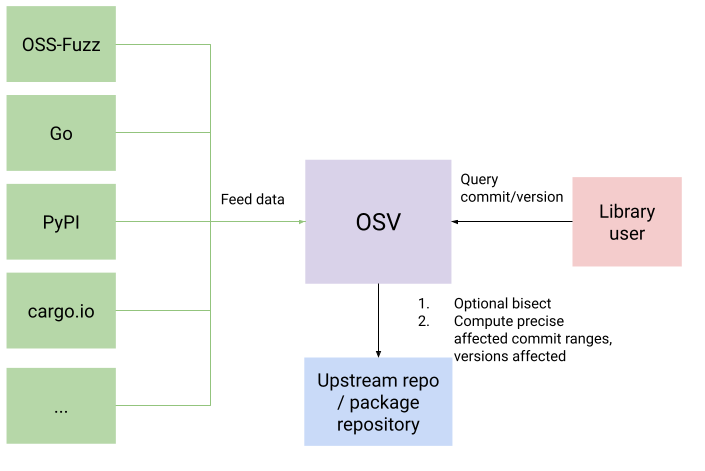
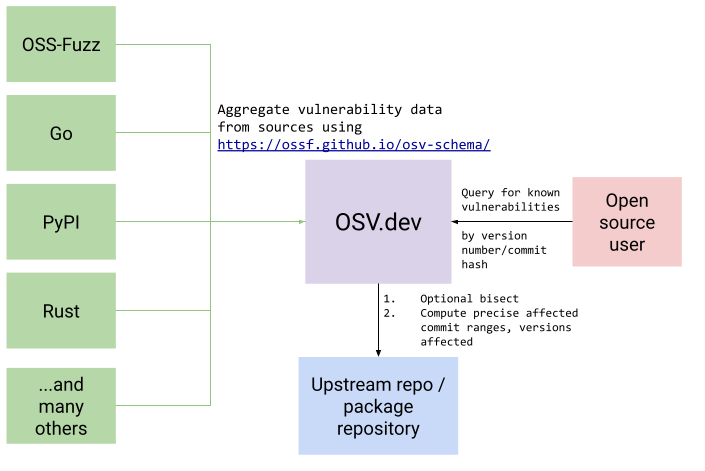
Update README
To better clarify relationship with OSV schema.

Also update process image.

diff --git a/gcp/appengine/frontend/src/components/Home.vue b/gcp/appengine/frontend/src/components/Home.vue
@@ -23,29 +23,30 @@
 
       <h3>Database for open source vulnerabilities</h3>
       <p>
-        OSV is a <router-link to="list">vulnerability database</router-link>
+        OSV.dev is a <router-link to="list">vulnerability database</router-link>
         and triage infrastructure for open source projects aimed at helping
         both open source maintainers and consumers of open source.
       <p>
       <p>
-        This feed contains vulnerabilities from
+        This infrastructure serves as an aggregator of vulnerabilities from
         <a href="https://github.com/google/oss-fuzz">OSS-Fuzz</a> (mostly C/C++),
         <a href="https://github.com/pypa/advisory-db">Python</a>, and
         <a href="https://github.com/golang/vulndb">Go</a>, and
         <a href="https://github.com/RustSec/advisory-db">Rust</a>, and
         <a href="https://github.com/cloudsecurityalliance/gsd-database">GSD</a>, and
-        npm (from GitHub Security Advisories).
-
-        More <a href="https://github.com/google/osv/issues/44">to come</a>.
+        parts of GitHub Security Advisories (Maven, npm).
+      </p>
+      <p>
+        These databases have all adopted the 
+        <a href="https://ossf.github.io/osv-schema/">OpenSSF Open Source
+        Vulnerability format</a>, making common tooling and aggregation very
+        simple. More data sources from other popular ecosystems are in the works.
       </p>
       <h4>API</h4>
       <p>
         For open source consumers, OSV provides an <a
         href="https://osv.dev/docs/#section/Getting-Started">API</a> that lets
         users query whether or not their versions are impacted.
-
-        These vulnerabilities are encoded in the
-        <a href="https://ossf.github.io/osv-schema/">OpenSSF Open Source Vulnerability format</a>.
       </p>
       <pre>
         curl -X POST -d \
@@ -69,7 +70,8 @@
       </p>
       <h3>Open source</h3>
       <p>
-        This is an <a href="https://github.com/google/osv">open source project</a> from <b>Google</b>.
+        This is an <a href="https://github.com/google/osv">open source project</a>.
+        We welcome contributions!
       </p>
       <h3>More information</h3>
       <p>

diff --git a/README.md b/README.md
@@ -1,15 +1,17 @@
 # OSV - Open Source Vulnerabilities
 
-OSV is a [vulnerability database] and triage infrastructure for open source
-projects aimed at helping both open source maintainers and consumers of open
-source.
+https://osv.dev is a [vulnerability database] and triage infrastructure for
+open source projects aimed at helping both open source maintainers and
+consumers of open source.
 
-For open source maintainers, OSV's automation helps reduce the burden of triage.
-Each vulnerability undergoes automated bisection and impact analysis to
-determine precise affected commit and version ranges.
+This repository contains the infrastructure code that serves https://osv.dev
+(and other user tooling). This infrastructure serves as an aggregator of
+vulnerability databases that have adopted the
+[OpenSSF Vulnerability format](https://github.com/ossf/osv-schema).
 
-For open source consumers, OSV provides an API that lets users of these projects
-query whether or not their versions are impacted.
+https://osv.dev additionally provides infrastructure to ensure affected
+versions are accurately represented in each vulnerability entry, through
+bisection and version analysis.
 
 [vulnerability database]: https://osv.dev/list
 
@@ -19,9 +21,9 @@ query whether or not their versions are impacted.
 
 ## Current data sources
 **This is an ongoing project.** We encourage open source ecosystems to adopt
-the [OpenSSF Vulnerability format](https://github.com/ossf/osv-schema) for the
-benefit of the open source community. See our
-[blog post](https://security.googleblog.com/2021/06/announcing-unified-vulnerability-schema.html)
+the [OpenSSF Vulnerability format](https://github.com/ossf/osv-schema) to enable
+open source users to easily aggregate and consume vulnerabilities across all ecosystesm.
+See our [blog post](https://security.googleblog.com/2021/06/announcing-unified-vulnerability-schema.html)
 for more details.
 
 The following ecosystems have vulnerabilities encoded in this format:
@@ -72,7 +74,8 @@ You can find an overview of OSV's architecture [here](docs/architecture.md).
 
 ## This repository
 
-This repository contains all the code for running OSV on GCP. This consists of:
+This repository contains all the code for running https://osv.dev on GCP. This
+consists of:
 
 - API server (`gcp/api`)
 - Web interface (`gcp/appengine`)
